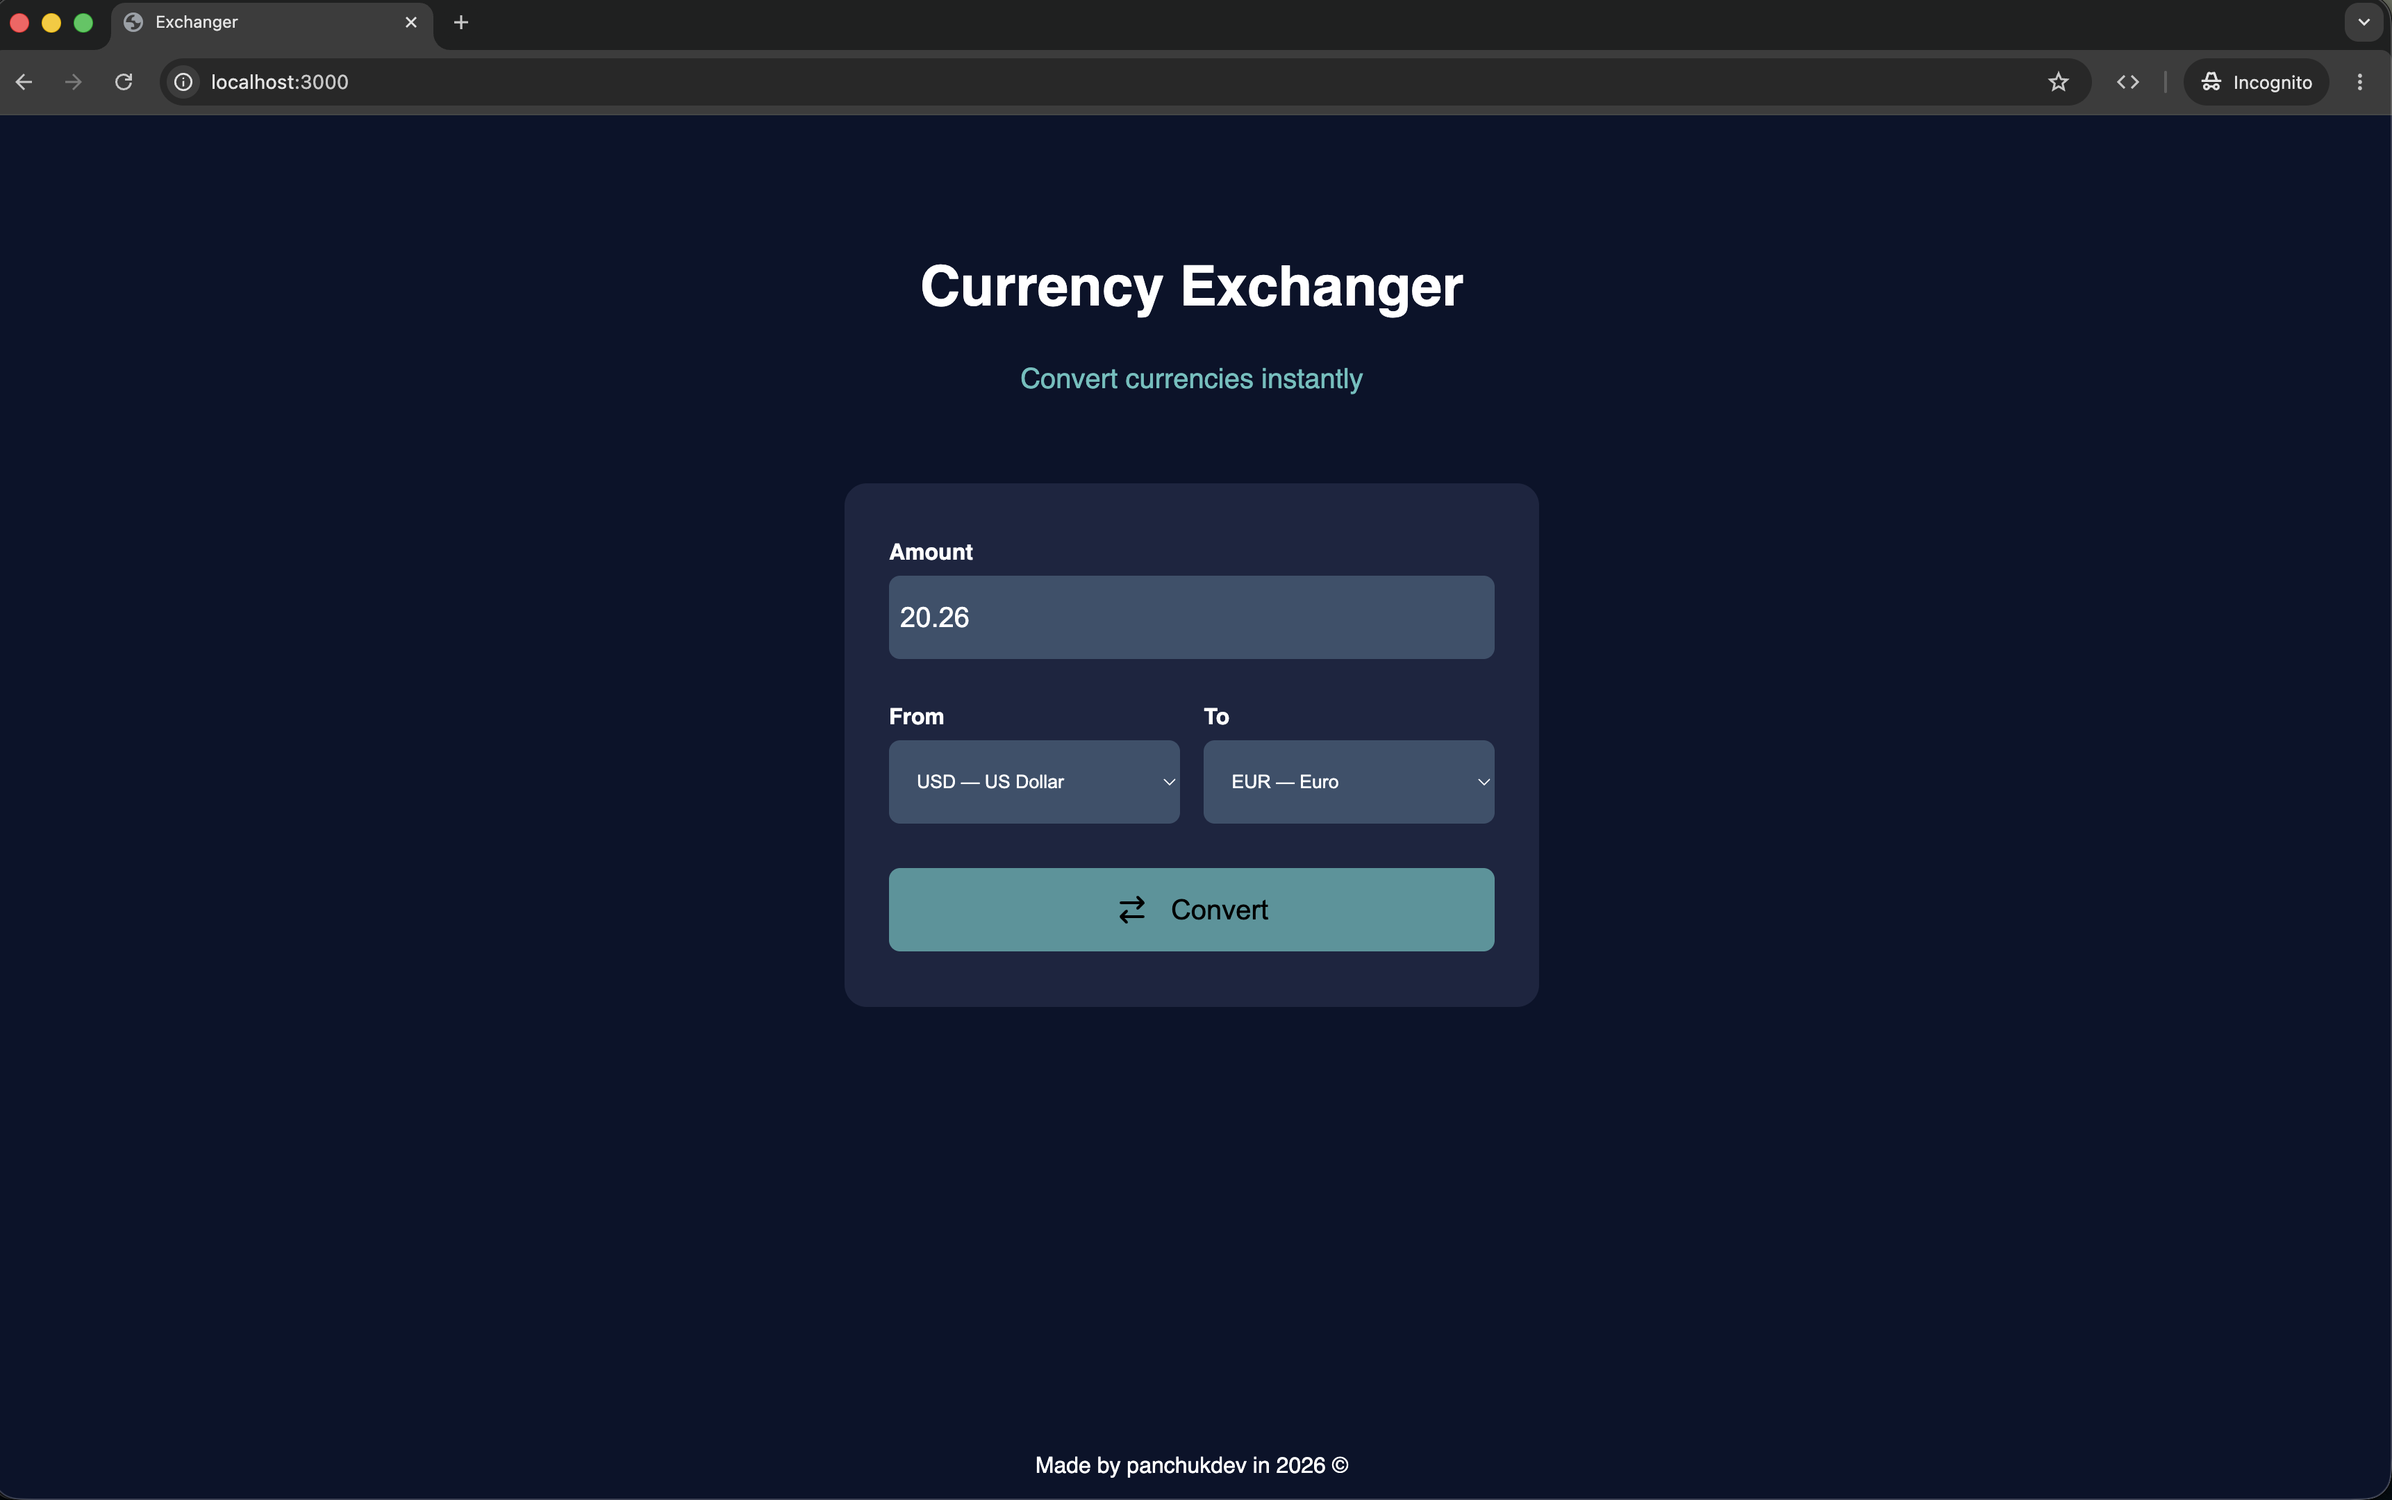
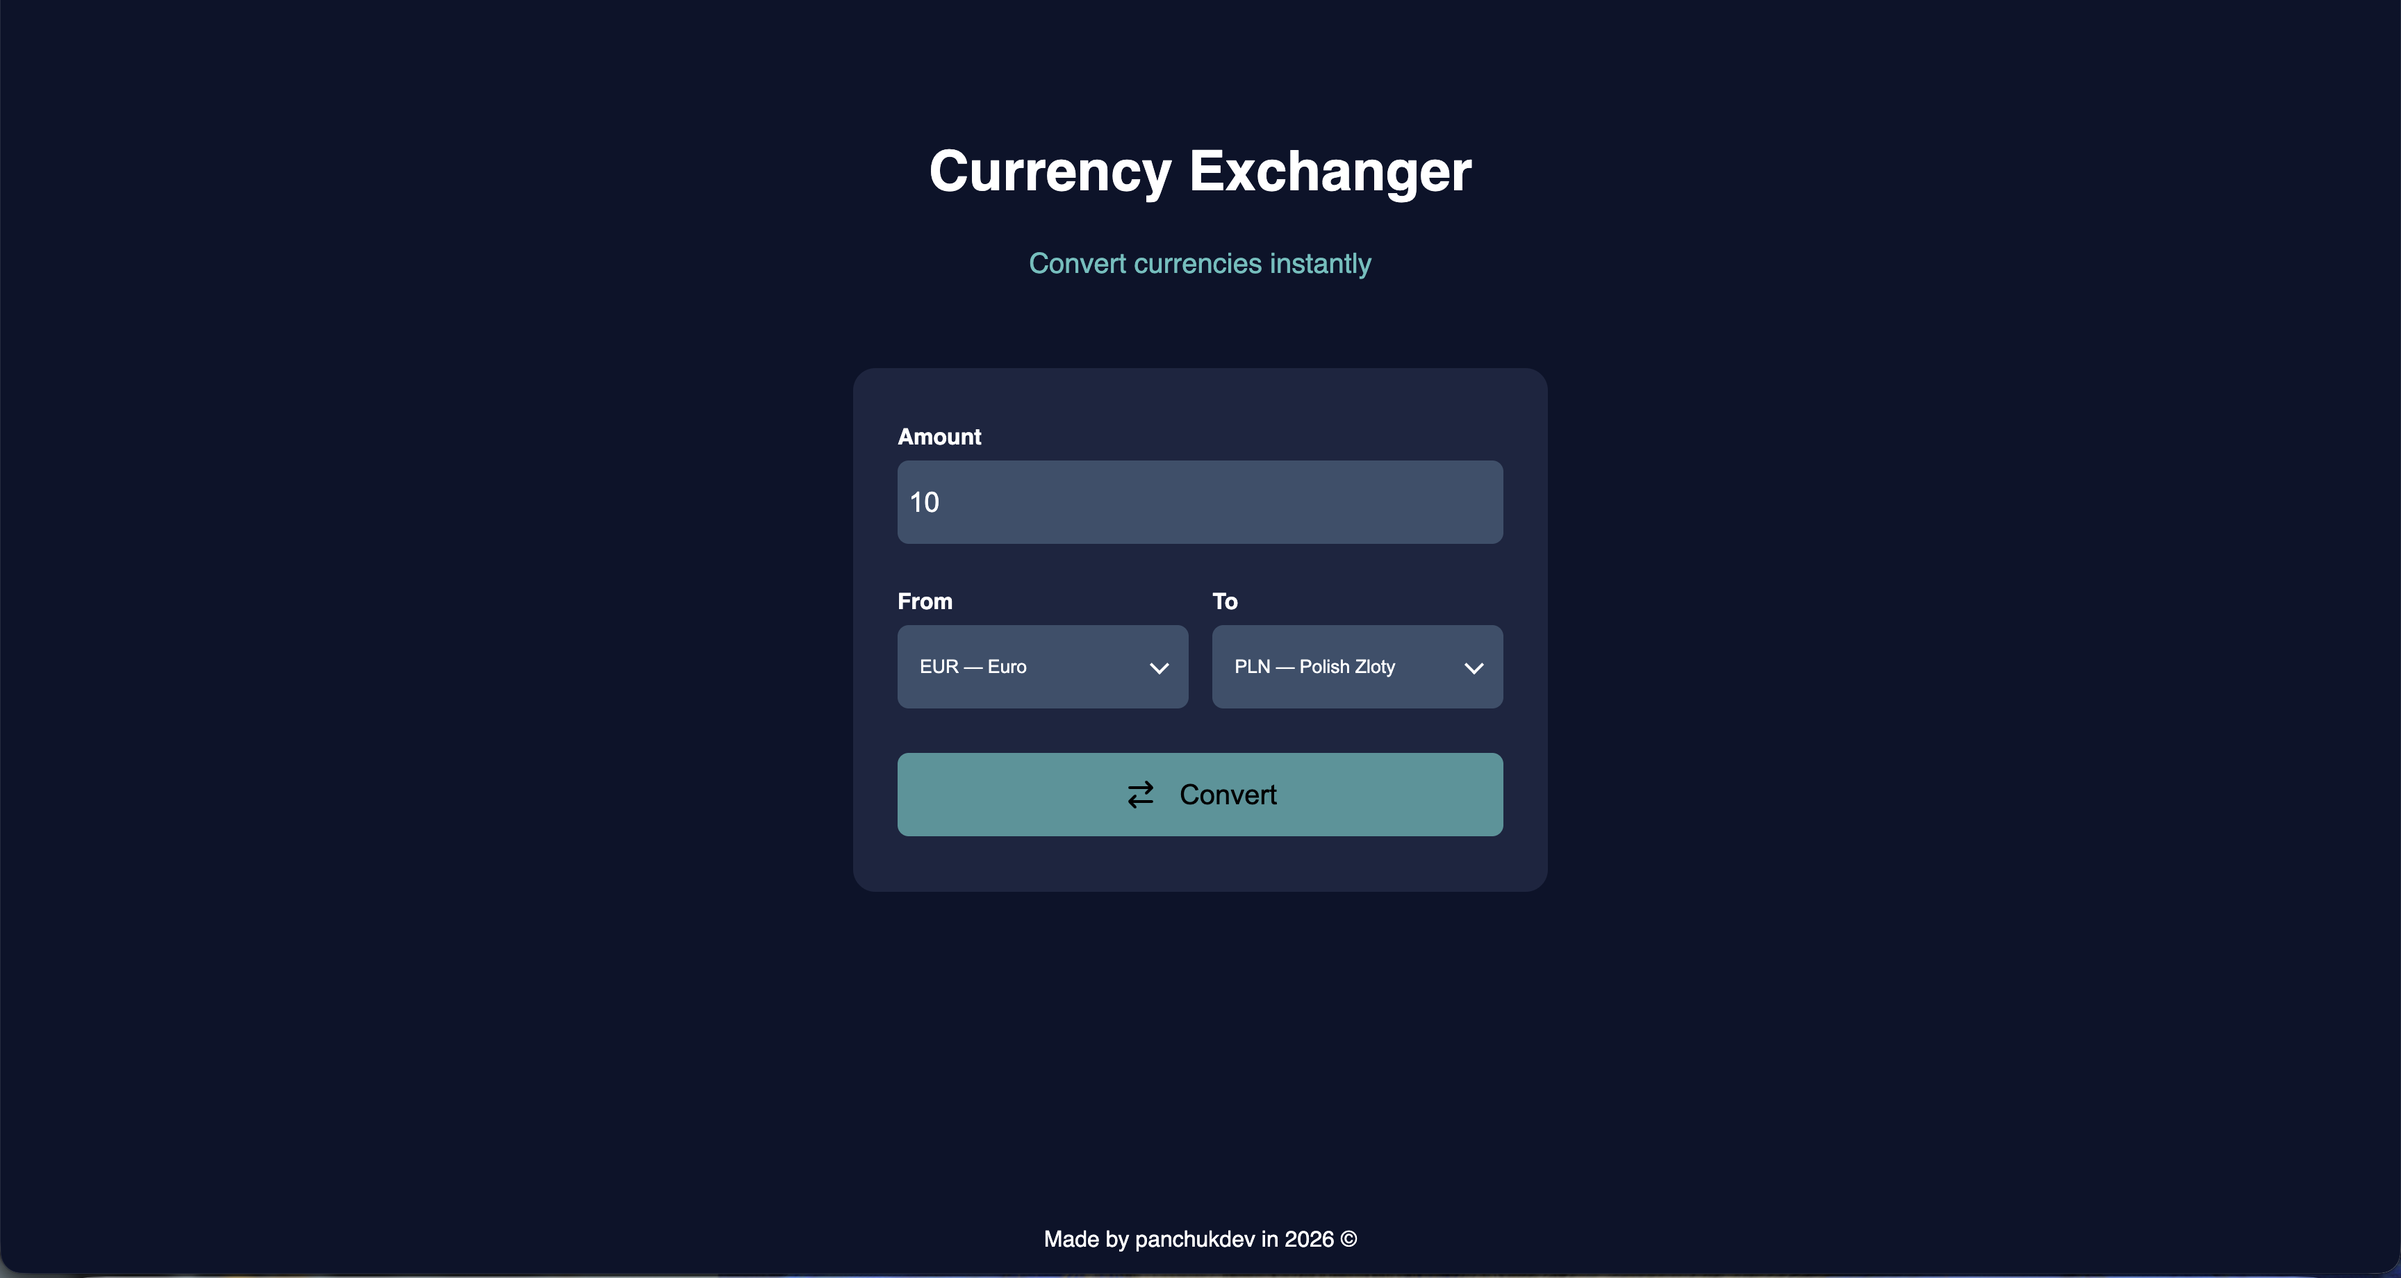
fix styles, vercel deployment

diff --git a/public/style.css b/public/style.css
@@ -5,7 +5,7 @@
 }
 
 body {
-    background-color: #0B132B;
+    background-color: #0b132b;
     color: white;
     font-family: sans-serif;
 }
@@ -20,7 +20,7 @@ h2 {
 
 p {
     font-size: 20px;
-    color: #5BC0BE;
+    color: #5bc0be;
 }
 
 label {
@@ -32,10 +32,6 @@ input {
     font-size: 20px;
 }
 
-selector {
-    font-size: 16px;
-}
-
 button {
     font-size: 20px;
 }
@@ -45,7 +41,7 @@ main {
     display: flex;
     align-items: center;
     flex-direction: column;
-    background-color: #0B132B;
+    background-color: #0b132b;
     margin-top: 100px;
     position: relative;
 }
@@ -61,7 +57,7 @@ main {
     justify-content: center;
     align-items: center;
     width: 500px;
-    background-color: #1C2541;
+    background-color: #1c2541;
     border-radius: 16px;
     color: white;
     padding: 40px 32px;
@@ -90,16 +86,38 @@ main {
     width: 100%;
 }
 
-.from-selector, .to-selector {
+.from-selector,
+.to-selector {
     gap: 8px;
     display: flex;
     flex-direction: column;
     justify-content: center;
     text-align: start;
+    position: relative;
+}
+
+.from-selector select,
+.to-selector select {
+    appearance: none;
+    -webkit-appearance: none;
+}
+
+.from-selector::after,
+.to-selector::after {
+    content: "";
+    position: absolute;
+    right: 16px;
+    top: 50px;
+    width: 8px;
+    height: 8px;
+    border-right: 2px solid white;
+    border-bottom: 2px solid white;
+    transform: rotate(45deg);
+    pointer-events: none;
 }
 
 input {
-    background-color: #3A506B;
+    background-color: #3a506b;
     border: none;
     padding: 8px;
     border-radius: 8px;
@@ -109,12 +127,13 @@ input {
 
 select {
     height: 60px;
-    background-color: #3A506B;
+    background-color: #3a506b;
     border: none;
-    padding: 16px;
+    padding: 0 16px;
     border-radius: 8px;
     color: white;
     width: 100%;
+    line-height: 60px;
 }
 
 .selectors > * {
@@ -142,7 +161,7 @@ button {
 }
 
 button:hover {
-    background-color: #5BC0BE;
+    background-color: #5bc0be;
 }
 
 .result {
@@ -175,7 +194,7 @@ footer {
     width: 100%;
 }
 
-@media(max-width: 600px) {
+@media (max-width: 600px) {
     .card {
         width: 95%;
         padding: 32px 24px;

diff --git a/index.js b/index.js
@@ -6,7 +6,10 @@ import dotenv from "dotenv";
 dotenv.config();
 
 const app = express();
-const port = 3000;
+
+// Commented for Vercel deployment
+
+// const port = 3000;
 
 const API_key = process.env.API_KEY;
 const API_URL = `https://v6.exchangerate-api.com/v6/${API_key}/pair/`;
@@ -19,7 +22,9 @@ app.get("/", async (req, res) => {
 });
 
 app.post("/", async (req, res) => {
-    const result = await axios.get(API_URL + req.body.from + "/" + req.body.to + "/" + req.body.amount);
+    const result = await axios.get(
+        API_URL + req.body.from + "/" + req.body.to + "/" + req.body.amount,
+    );
     const receivedResult = result.data.conversion_result;
     const roundedResult = Math.round(receivedResult * 100) / 100;
     const targetCode = result.data.target_code;
@@ -33,6 +38,10 @@ app.post("/", async (req, res) => {
     });
 });
 
-app.listen(port, () => {
-    console.log("Server is listening on port", port);
-})
+// Commented for Vercel deployment
+
+// app.listen(port, () => {
+//     console.log("Server is listening on port", port);
+// });
+
+export default app;
